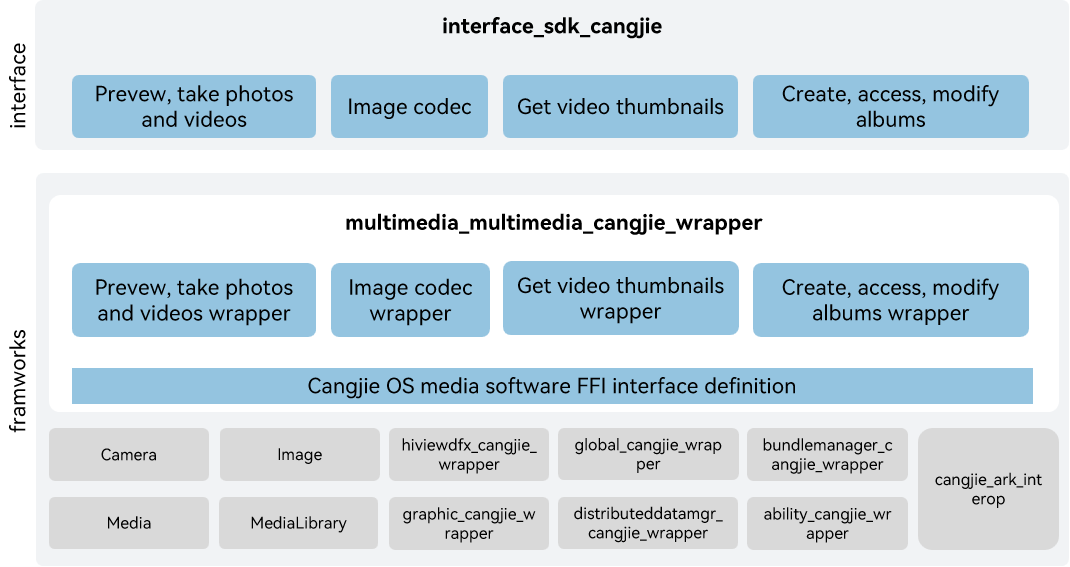
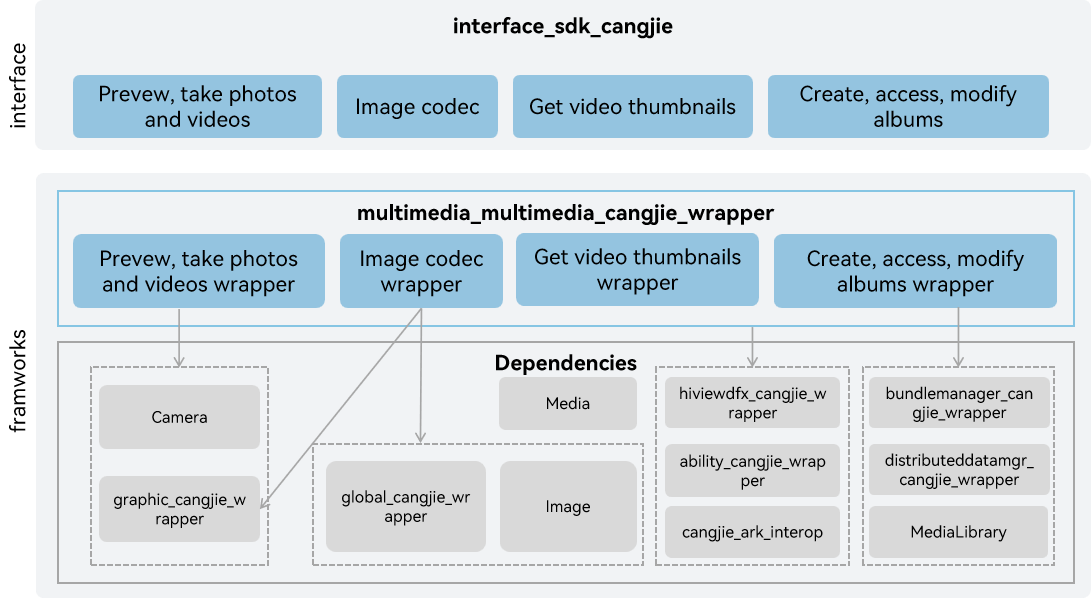
update README

diff --git a/README_zh.md b/README_zh.md
@@ -2,7 +2,7 @@
 
 ## 简介
 
-媒体子系统为开发者提供一套简单且易于理解的接口，使得开发者能够方便地接入系统并使用系统的媒体资源。OS媒体软件仓颉接口包含了图片，相机，相册，视频相关媒体业务。当前开放的OS媒体软件仓颉接口仅支持standard设备。
+在OpenHarmnoy平台上，OS媒体软件仓颉封装为开发者提供了使用仓颉语言进行应用开发时所需的媒体相关的能力。媒体子系统为开发者提供一套简单且易于理解的接口，使得开发者能够方便地接入系统并使用系统的媒体资源。OS媒体软件仓颉接口包含了图片，相机，相册，视频相关媒体业务。当前开放的OS媒体软件仓颉接口仅支持standard设备。
 
 ## 系统架构
 
@@ -25,7 +25,6 @@
 - 图片编解码封装：仓颉图片编解码的实现封装，提供图片编解码能力。
 - 获取视频缩略图封装：仓颉获取视频缩略图的实现封装，提供获取视频缩略图能力。
 - 创建，访问，修改相册封装：仓颉创建，访问，修改相册的实现封装，提供创建，访问，修改相册能力。
-- 仓颉OS媒体软件FFI接口定义：负责定义C语言互操作仓颉接口，用于实现仓颉OS媒体软件能力。
 
 架构图中的依赖部件引入说明：
 

diff --git a/README.md b/README.md
@@ -25,7 +25,6 @@ Framework:
 - Image codec wrapper: Provides Implementation encapsulation of Cangjie Image codec, providing Image codec capabilities.
 - Get video thumbnails wrapper: Provides Implementation encapsulation of Cangjie Get video thumbnails, providing Get video thumbnails capabilities.
 - Create, access, modify albums wrapper: Provides Implementation encapsulation of Cangjie Create, access, modify albums, providing Create, access, modify albums capabilities.
-- Cangjie OS Media Software FFI Interface Definition: Responsible for defining the C Language interoperability Cangjie interface, which is used to realize the Cangjie OS media software capabilities.
 
 - Explanation of Dependencies in the Architecture Diagram:
 
